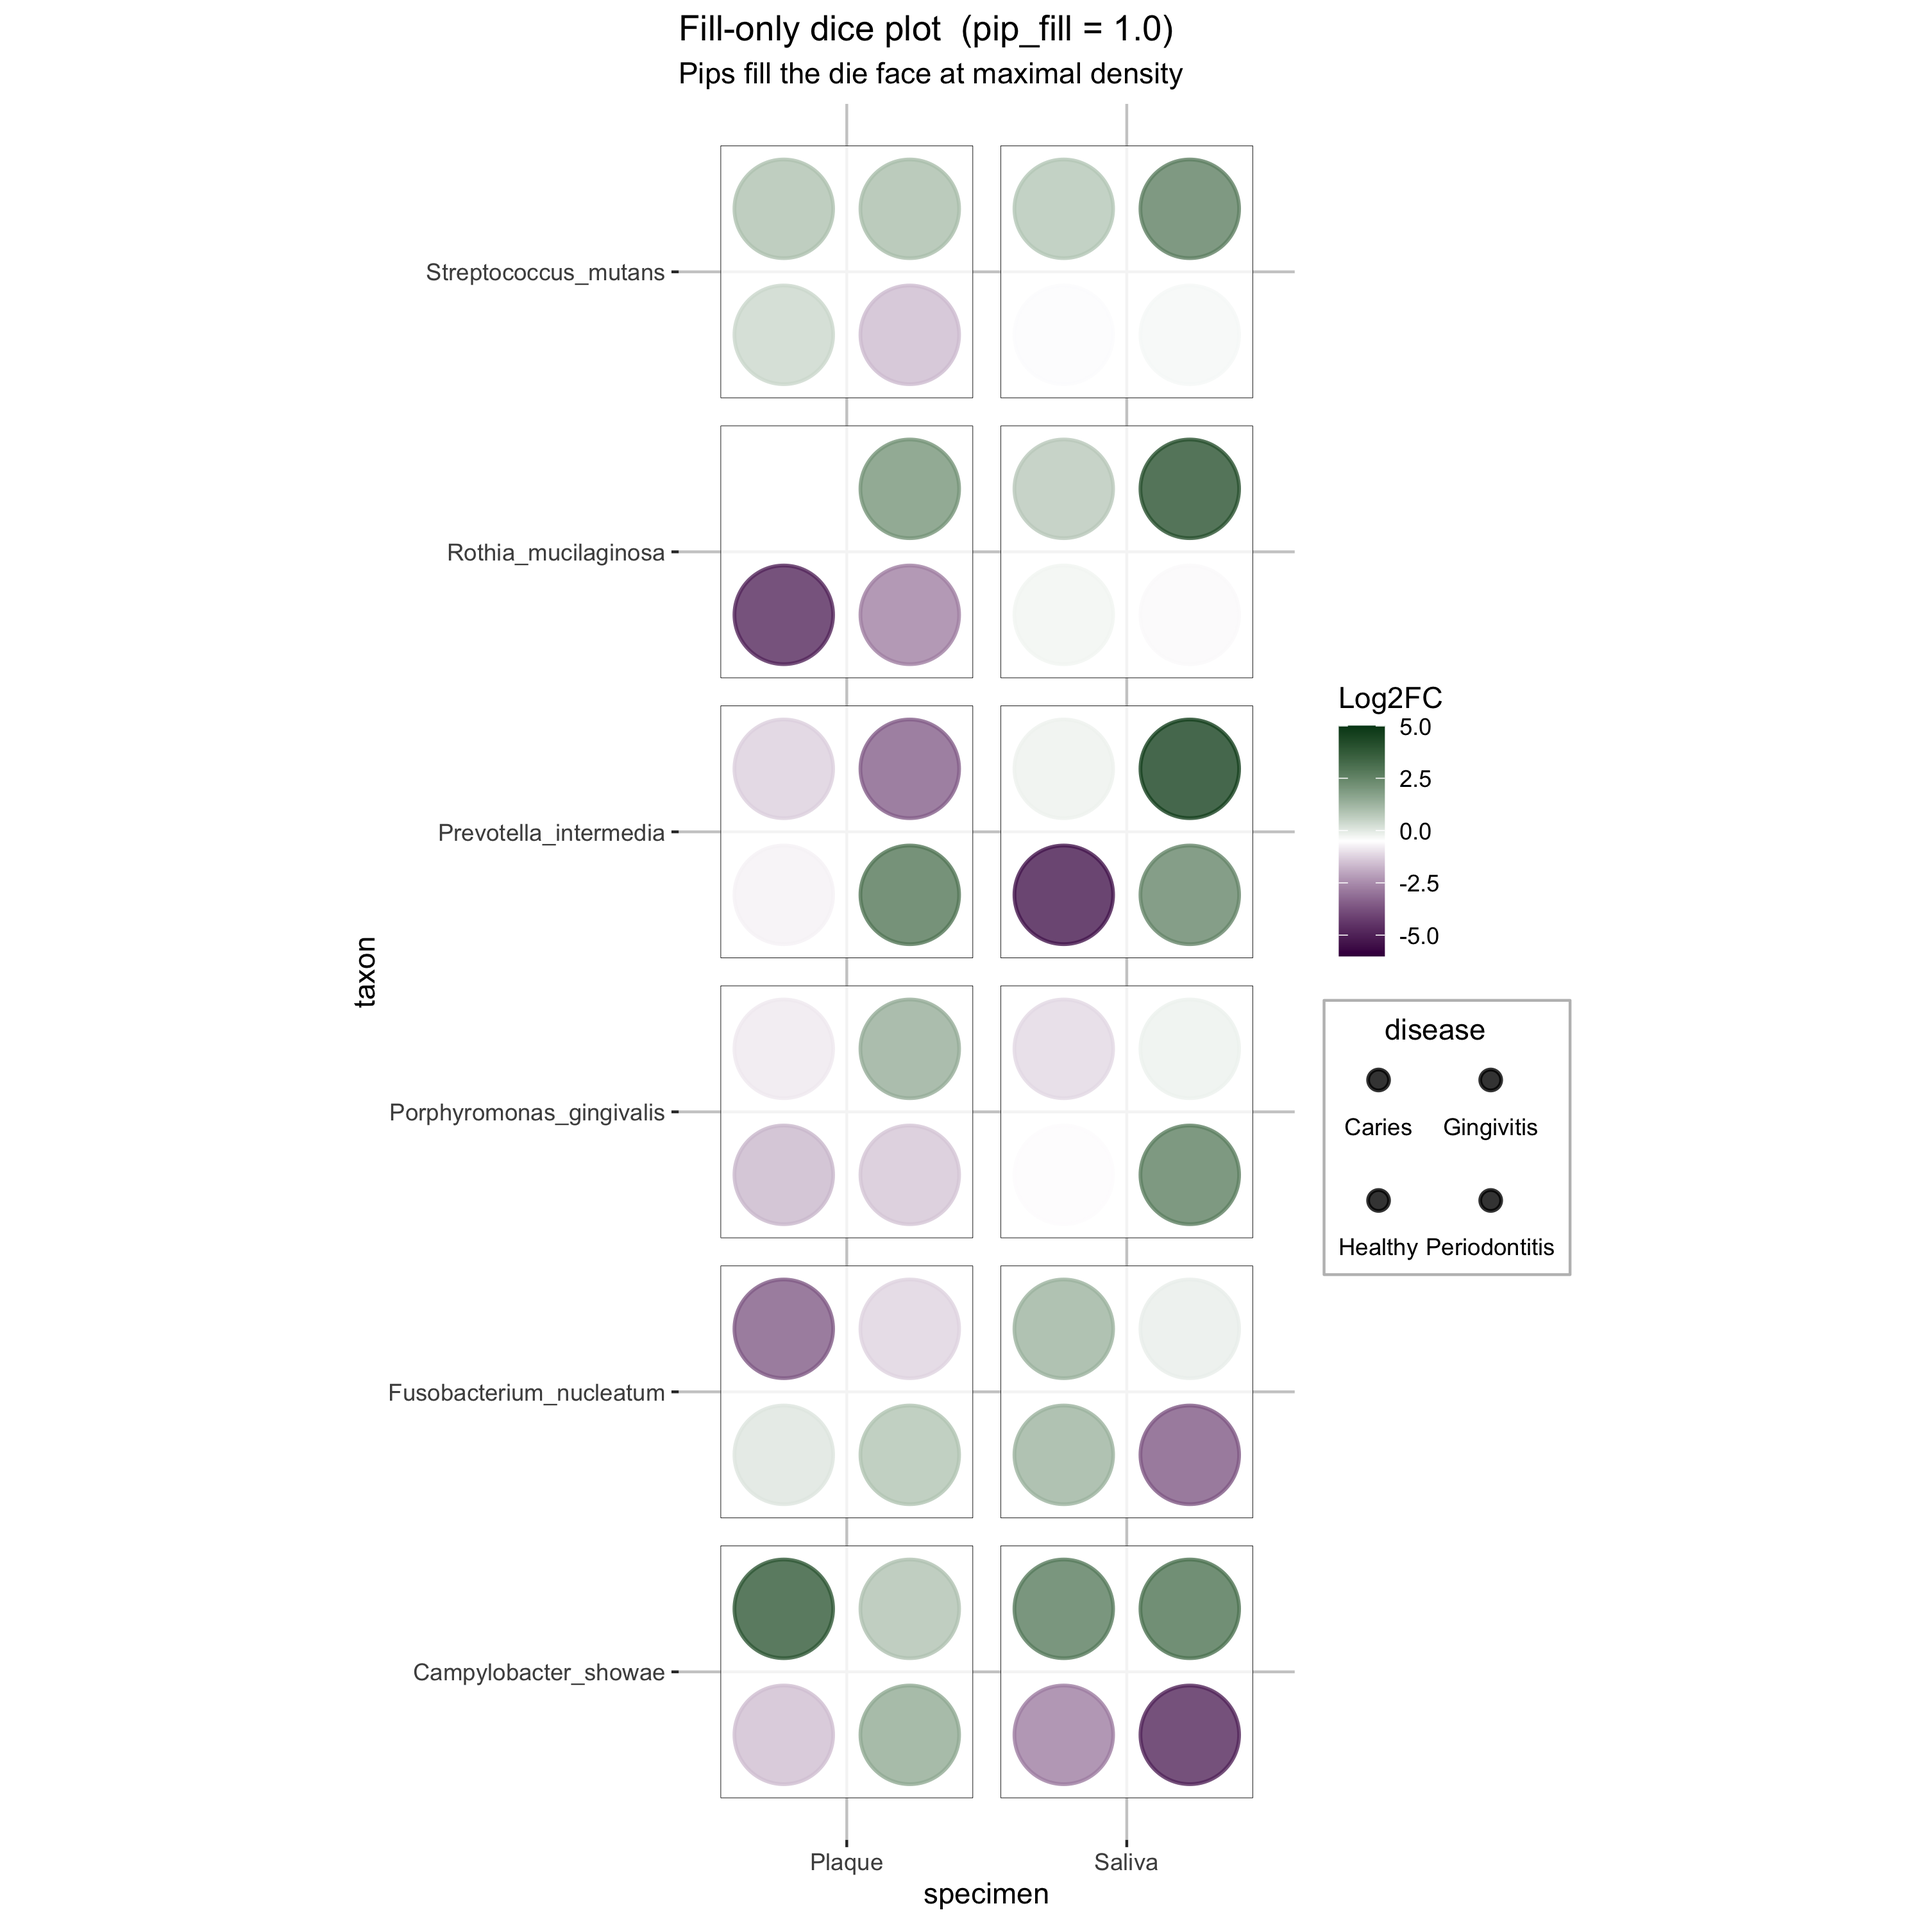
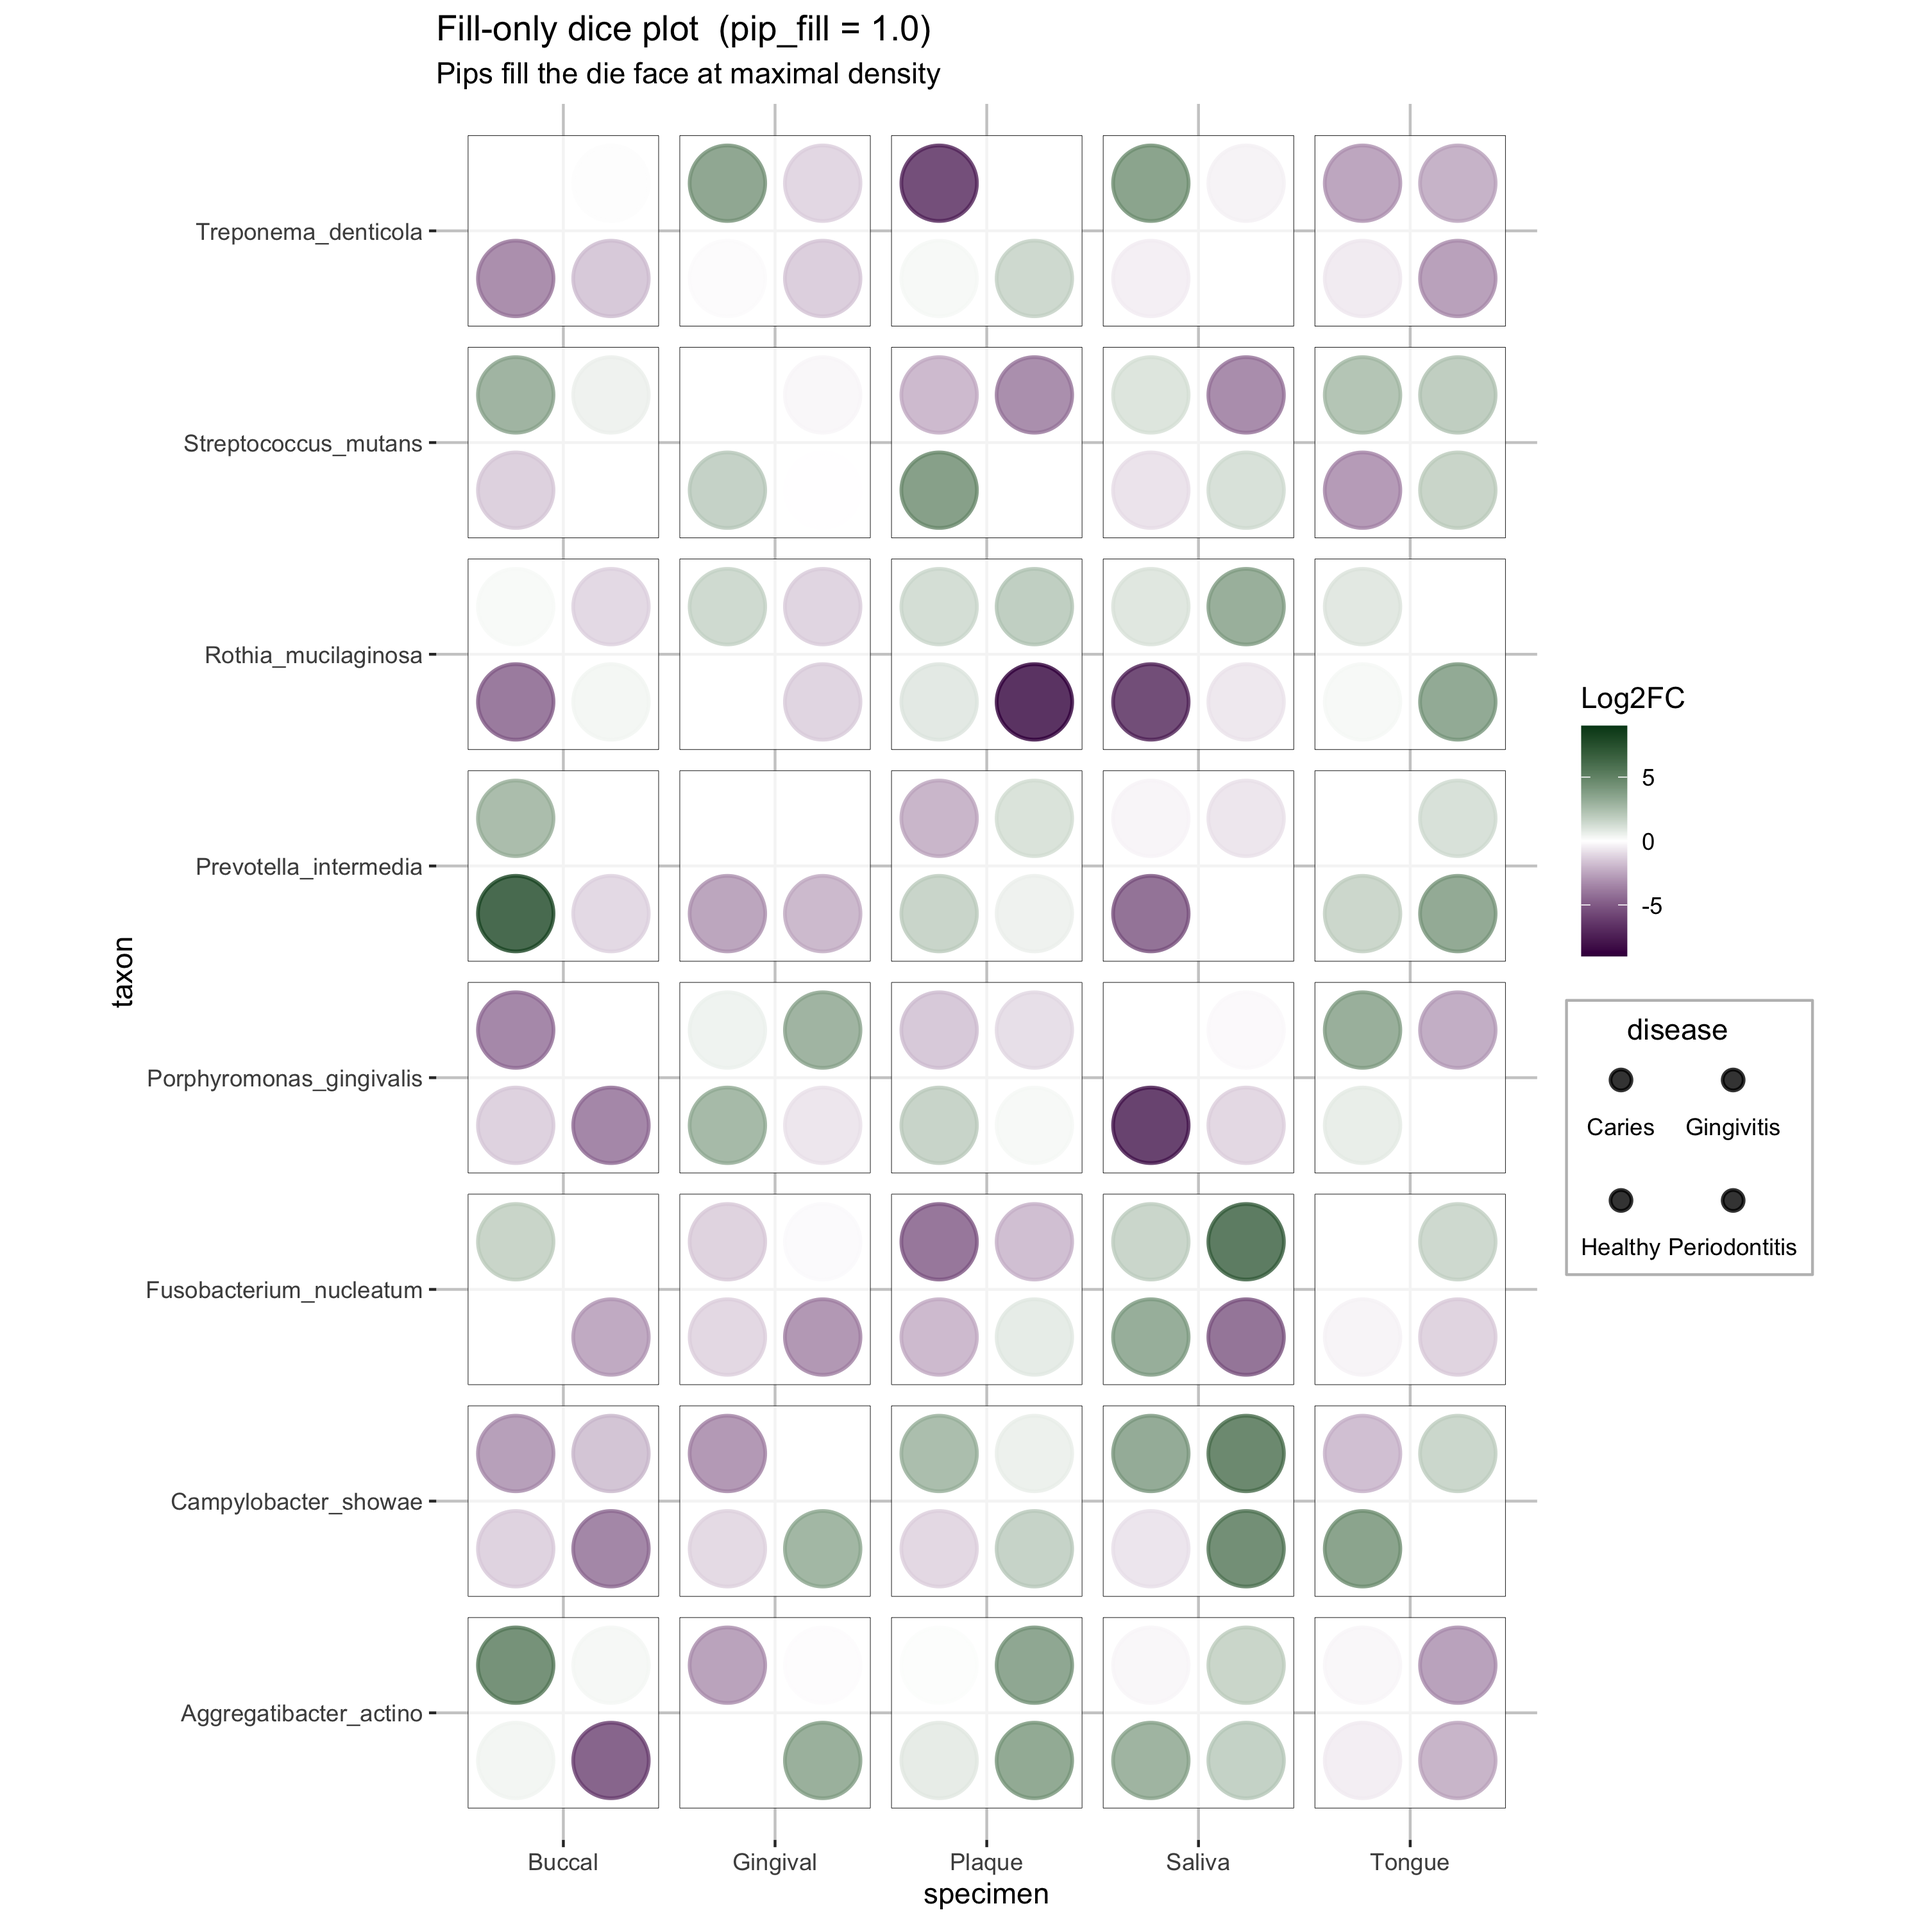
update scaling factor

diff --git a/README.md b/README.md
@@ -39,14 +39,14 @@ midsize <- ceiling(quantile(-log10(toy_data$q), 0.5, na.rm = TRUE))
 
 ggplot(toy_data, aes(x = specimen, y = taxon)) +
   geom_dice(
-    aes(dots = disease, fill = lfc, size = -log10(q), width = 0.5, height = 0.5),
+    aes(dots = disease, fill = lfc, size = -log10(q), width = 0.9, height = 0.9),
     na.rm       = TRUE,
     show.legend = TRUE,
+    pip_fill    = 0.9,
     ndots       = length(unique(toy_data$disease)),
     x_length    = length(unique(toy_data$specimen)),
     y_length    = length(unique(toy_data$taxon))
   ) +
-  scale_fill_continuous(name = "lfc") +
   scale_fill_gradient2(
     low = "#40004B", high = "#00441B", mid = "white",
     na.value = "white", limit = c(lo, up), midpoint = mid,
